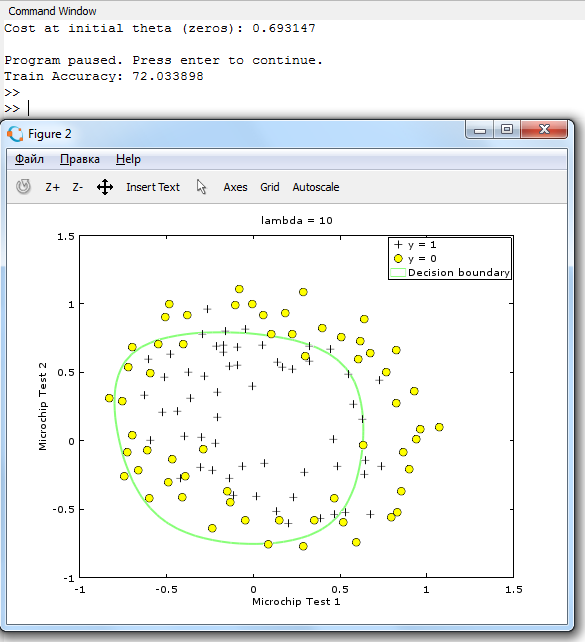
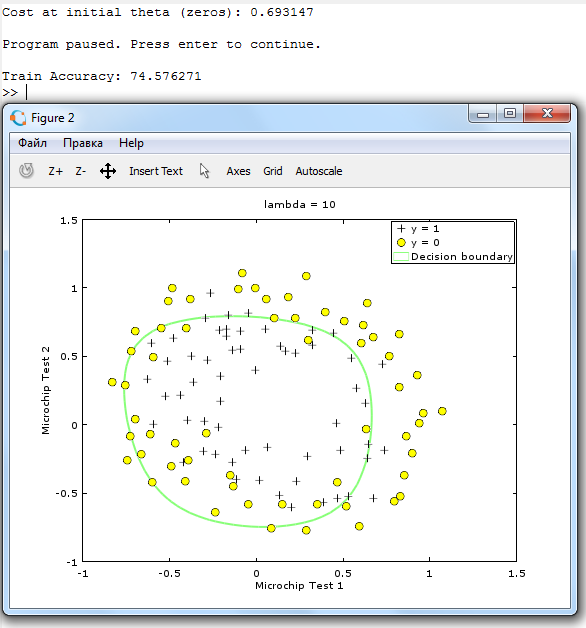
excluded theta(0) term from regularization
excluded theta(0) term from regularization (my mistake)

diff --git a/Ex2/octave_code/costFunctionReg.m b/Ex2/octave_code/costFunctionReg.m
@@ -32,7 +32,7 @@ end
 sum1 = sum1/m;              % first term (no regularization)
 grad(1) = Diff_sum/m;       % gradient for theta_zero 
 
-sum2 = sumsq(theta) * lambda/(2*m); % second term (regularization)
+sum2 = sumsq(theta(2:end)) * lambda/(2*m); % second term (regularization)
 
 J = sum1 + sum2;            % final value of cost function
 
